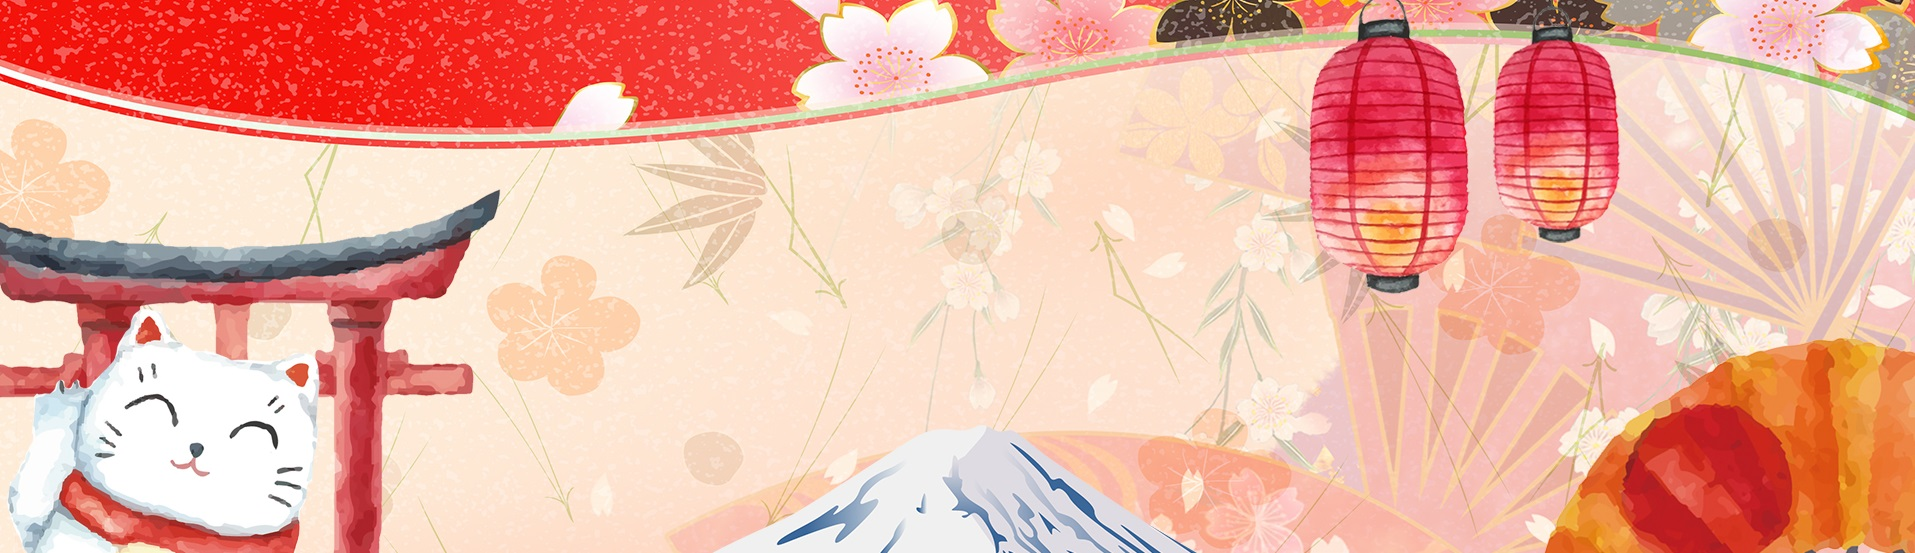
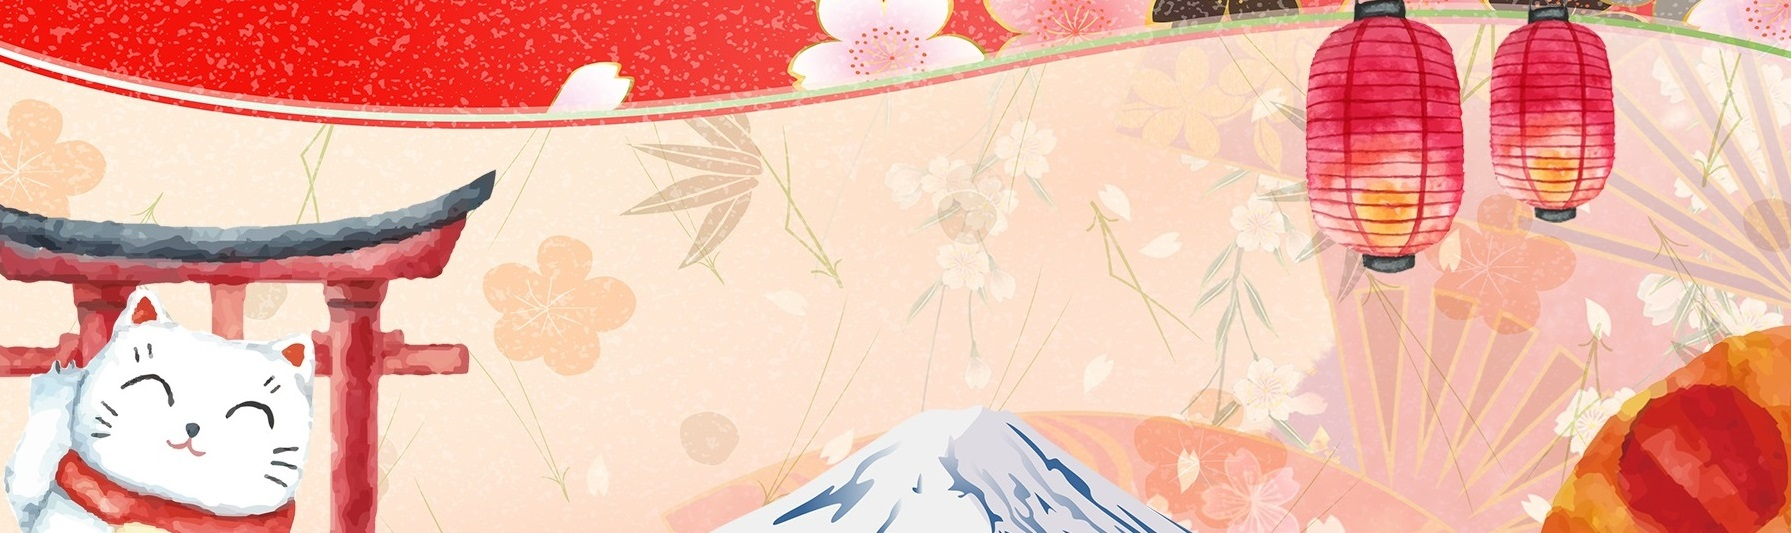
JF-accueil
Mise en page de la page d'accueil

diff --git a/index.html b/index.html
@@ -9,13 +9,47 @@
 </head>
 <body>
     <header>
-        <img src="img/img-header.jpg" alt="">
-        <button>Connexion</button>
-        <button>Inscription</button>
+        <div class="btn-container">
+            <button class="vertical-button vb1">
+                <span>C</span>
+                <span>o</span>
+                <span>n</span>
+                <span>n</span>
+                <span>e</span>
+                <span>x</span>
+                <span>i</span>
+                <span>o</span>
+                <span>n</span>
+              </button>
+              <button class="vertical-button vb2">
+                <span>I</span>
+                <span>n</span>
+                <span>s</span>
+                <span>c</span>
+                <span>r</span>
+                <span>i</span>
+                <span>p</span>
+                <span>t</span>
+                <span>i</span>
+                <span>o</span>
+                <span>n</span>
+              </button>
+        </div>
         <input type="text" name="search">
     </header>
     <main>
-        <nav>gauche</nav>
+        <nav>
+            <ul>
+                <li>Accueil</li>
+                <li>Poésie</li>
+                <li>Ogigami</li>
+                <li>Peinture</li>
+                <li>Photos</li>
+                <li>Vidéo</li>
+                <li>Forum</li>
+                <li>Contacts</li>
+            </ul>
+        </nav>
         <section>
             <h1>Bienvenue dans le coin artistique</h1>
             <p>Présentation</p>

diff --git a/style.css b/style.css
@@ -1,0 +1,43 @@
+*, ::before, ::after{
+    box-sizing: border-box;
+    padding: 0;
+    margin: 0;
+}
+header{
+    height: 40vh;
+    background-image: url('img/origin.jpg');
+    background-size: cover;
+    background-position: center;
+}
+.vertical-button {
+    writing-mode: vertical-rl;
+    /* text-orientation: upright; */
+    white-space: nowrap;
+    background-color: rgb(250,128,114);
+    /* box-shadow: 2px 2px 5px rgb(252, 0, 0); */
+    border: none;
+    border-radius: 10px;
+    margin-left: 10px;
+    color: white;
+    font-weight: 700;
+    font-size: 14px;
+    cursor: pointer;
+  }
+  .vb1{
+    height: 180px;
+    width: 40px;
+  }
+  .vb2{
+    height: 220px;
+    width: 40px;
+  }
+  
+  .vertical-button span {
+    display: block; /* Affiche chaque caractère sur une ligne séparée */
+    margin-bottom: 0.2em; /* Espacement entre les caractères */
+  }
+  .btn-container{
+   position: absolute;
+    right: 30px;
+    display: flex; /* Utilisation de flexbox */
+  }
